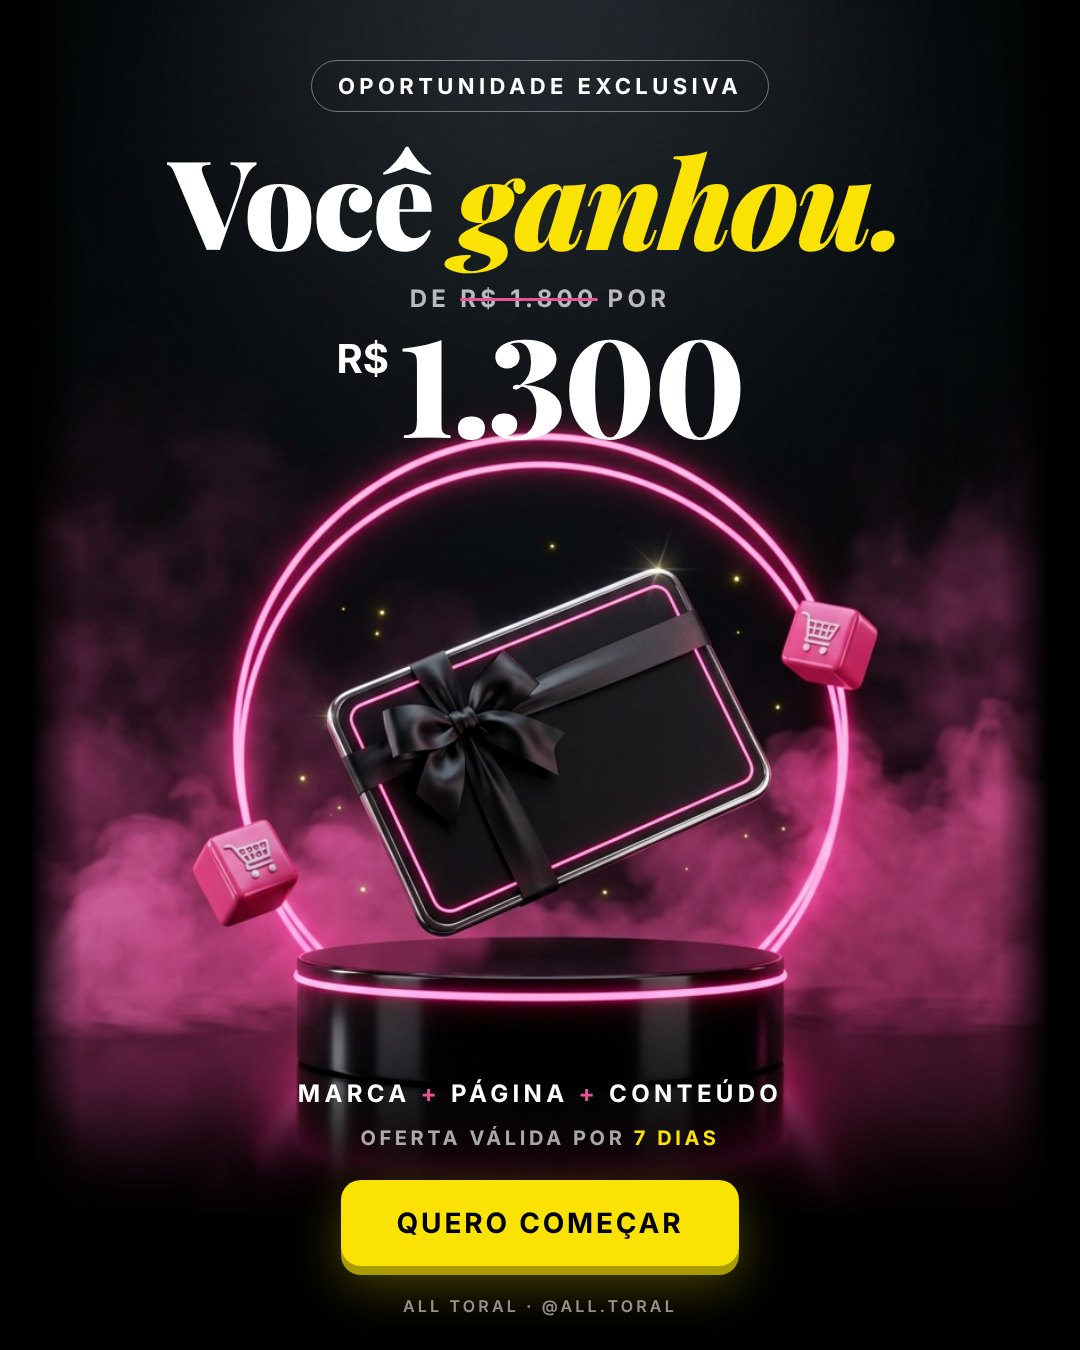
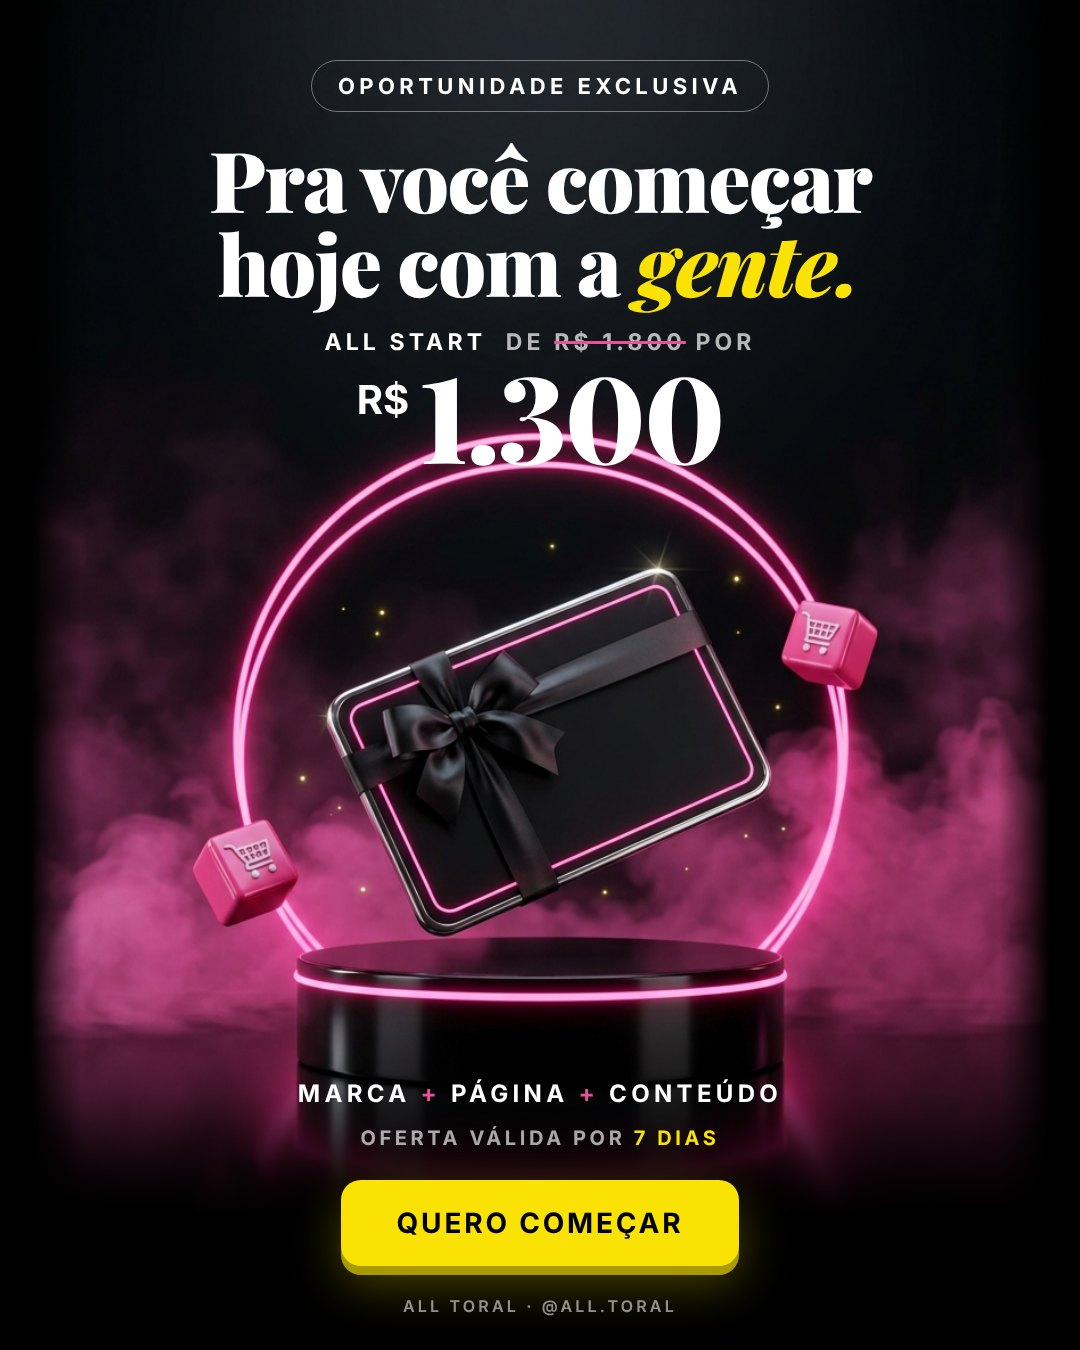
Cards com o texto do cartaz
Claude-Session: https://claude.ai/code/session_014tfPc2powPdpAGA6Jk82bU

Changed region(s): [[0.1528, 0.0933, 0.825, 0.3422]]

diff --git a/email.html b/email.html
@@ -5,7 +5,7 @@
 <div class="tip"><b>Como usar:</b> selecione tudo desta página abaixo da linha (Ctrl+A ou Cmd+A), copie e cole no corpo do e-mail no Gmail. A imagem chega clicável e leva para a página do ALL START.</div>
 <hr>
 <table role="presentation" width="100%" cellpadding="0" cellspacing="0" style="background:#000"><tr><td align="center" style="padding:24px 12px">
-  <a href="https://alltoral.github.io/start/" target="_blank"><img src="https://alltoral.github.io/start/cards/card-a.jpg" width="540" alt="Oportunidade exclusiva: ALL START de R$ 1.800 por R$ 1.300. Oferta válida por 7 dias." style="display:block;width:100%;max-width:540px;height:auto;border:0"></a>
+  <a href="https://alltoral.github.io/start/" target="_blank"><img src="https://alltoral.github.io/start/cards/card-a.jpg" width="540" alt="Oportunidade exclusiva. Pra você começar hoje com a gente: ALL START de R$ 1.800 por R$ 1.300. Oferta válida por 7 dias." style="display:block;width:100%;max-width:540px;height:auto;border:0"></a>
   <p style="margin:22px 0 0"><a href="https://alltoral.github.io/start/" target="_blank" style="display:inline-block;background:#fae204;color:#000;font-family:Arial,sans-serif;font-weight:bold;font-size:16px;letter-spacing:1px;text-decoration:none;padding:16px 34px;border-radius:12px">QUERO COMEÇAR</a></p>
   <p style="margin:18px 0 0;font-family:Arial,sans-serif;font-size:12px;color:#888">ALL TORAL · @all.toral</p>
 </td></tr></table>
